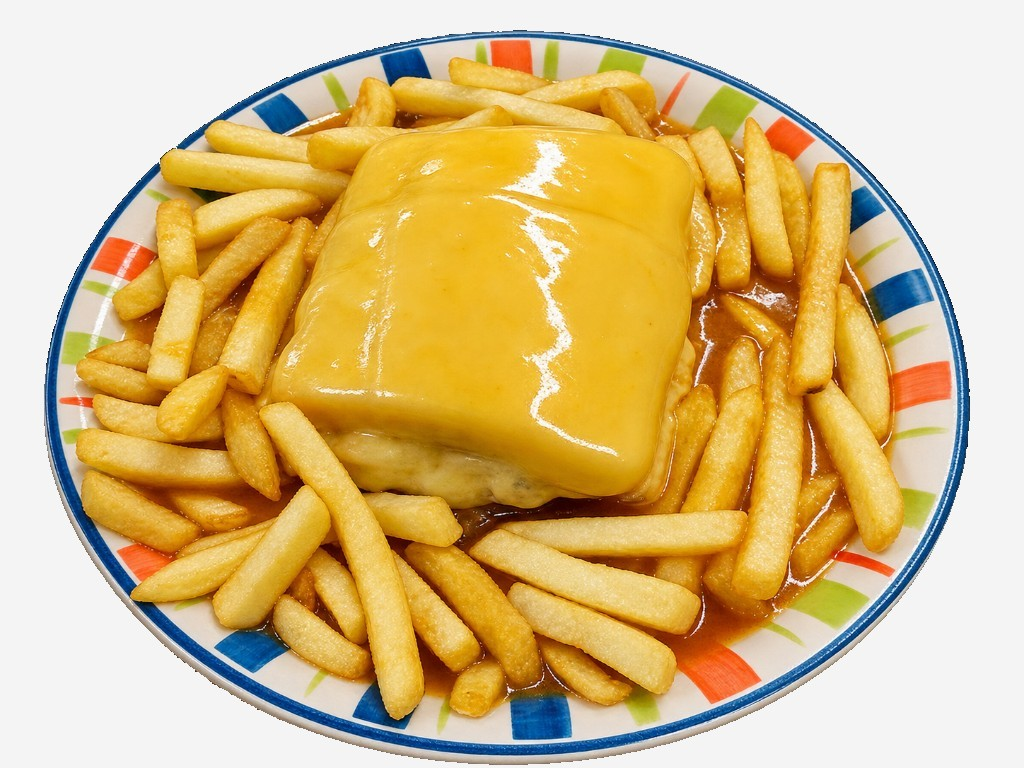
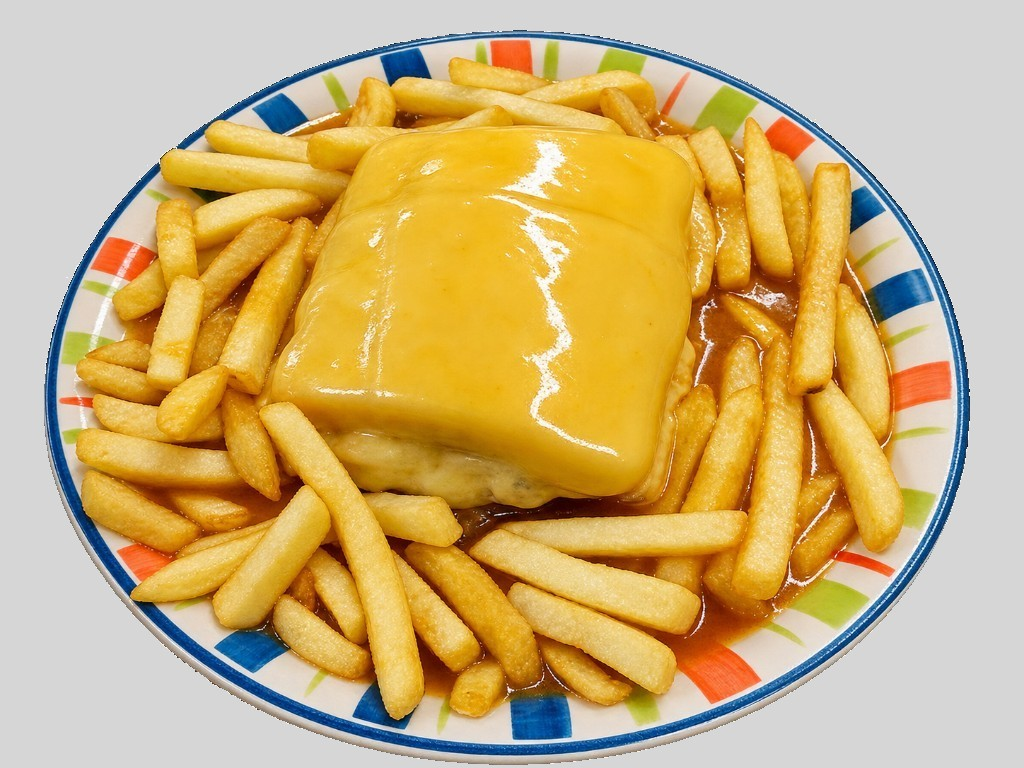
Tira os ingredientes e alinha o nome do prato com os dias.

diff --git a/css/style.css b/css/style.css
@@ -439,8 +439,8 @@ section {
 }
 
 .menu-photo {
-    aspect-ratio: 4 / 3;
-    background: #f4f4f4;
+    aspect-ratio: 5 / 3;
+    background: #d6d6d6;
 }
 
 .menu-photo img {
@@ -460,16 +460,17 @@ section {
 }
 
 .menu-card-name,
-.menu-card-price,
-.menu-card-note {
+.menu-card-price {
     margin: 0;
 }
 
 .menu-card-name {
-    font-family: var(--serif);
+    min-width: 0;
+    font-family: var(--sans);
     font-weight: 600;
-    font-size: clamp(1.2rem, 1.6vw, 1.45rem);
-    line-height: 1.15;
+    font-size: 0.92rem;
+    line-height: 1.2;
+    letter-spacing: 0.12em;
 }
 
 .menu-card-price {
@@ -477,14 +478,6 @@ section {
     font-size: 0.95rem;
     font-variant-numeric: tabular-nums;
     white-space: nowrap;
-}
-
-.menu-card-note {
-    margin-top: 0.4rem;
-    max-width: 36ch;
-    font-family: var(--sans);
-    font-size: 0.875rem;
-    line-height: 1.45;
 }
 
 .quiet {
@@ -921,18 +914,12 @@ section {
     }
 
     .menu-card-name {
-        font-size: 0.78rem;
+        font-size: 0.82rem;
+        letter-spacing: 0.08em;
     }
 
     .menu-card-price {
         font-size: 0.72rem;
-    }
-
-    .menu-card-note {
-        margin-top: 0.25rem;
-        max-width: none;
-        font-size: 0.65rem;
-        line-height: 1.3;
     }
 
     .footer-meta {

diff --git a/js/cafe.js b/js/cafe.js
@@ -13,7 +13,7 @@
      {
        category: "Cafés",
        items: [
-         { name: "Expresso", description: "", price: "" }
+         { name: "Expresso", price: "" }
        ]
      }
    ]
@@ -56,7 +56,8 @@ window.CAFE = {
 
     /* Cada secção recebe os pratos em items.
        name é obrigatório.
-       price, description e image são opcionais.
+       price e image são opcionais.
+       Os ingredientes não são mostrados.
        image é o caminho da fotografia, por exemplo "images/ementa/francesinha.jpg". */
     menu: [
         { category: "Snacks", items: [] },
@@ -65,8 +66,7 @@ window.CAFE = {
             {
                 name: "Francesinha",
                 price: "€",
-                description: "Pão, Salsicha, Linguiça, Carne de Novilho, Ovo Estrelado, Fiambre, Queijo, Molho Francesinha",
-                image: "images/ementa/francesinha.jpg?v=2"
+                image: "images/ementa/francesinha.jpg?v=3"
             }
         ] },
         { category: "Sobremesa", items: [] },

diff --git a/index.html b/index.html
@@ -15,7 +15,7 @@
     <link rel="preconnect" href="https://fonts.gstatic.com" crossorigin>
     <link href="https://fonts.googleapis.com/css2?family=Cormorant+Garamond:ital,wght@0,500;0,600;1,500&family=DM+Sans:ital,opsz,wght@0,9..40,400;0,9..40,500;1,9..40,400&family=Montserrat:wght@700;800&display=swap" rel="stylesheet">
     <link rel="preload" as="image" href="images/sala.jpg">
-    <link rel="stylesheet" href="css/style.css?v=18">
+    <link rel="stylesheet" href="css/style.css?v=19">
 </head>
 <body>
     <a class="skip" href="#conteudo">Saltar para o conteúdo</a>
@@ -125,9 +125,9 @@
         </div>
     </footer>
 
-    <script src="js/cafe.js?v=5"></script>
+    <script src="js/cafe.js?v=6"></script>
     <script src="js/reviews.js"></script>
-    <script src="js/main.js?v=3"></script>
+    <script src="js/main.js?v=4"></script>
     <script src="js/reviews-banner.js?v=2"></script>
 </body>
 </html>

diff --git a/js/main.js b/js/main.js
@@ -70,9 +70,6 @@
         var price = String(item.price || "").trim()
             ? "<p class='menu-card-price'>" + escapeHtml(item.price) + "</p>"
             : "";
-        var note = String(item.description || "").trim()
-            ? "<p class='menu-card-note'>" + escapeHtml(item.description) + "</p>"
-            : "";
 
         return (
             "<article class='menu-card'>" +
@@ -81,7 +78,6 @@
                     "<h3 class='menu-card-name'>" + escapeHtml(item.name) + "</h3>" +
                     price +
                 "</div>" +
-                note +
             "</article>"
         );
     }
